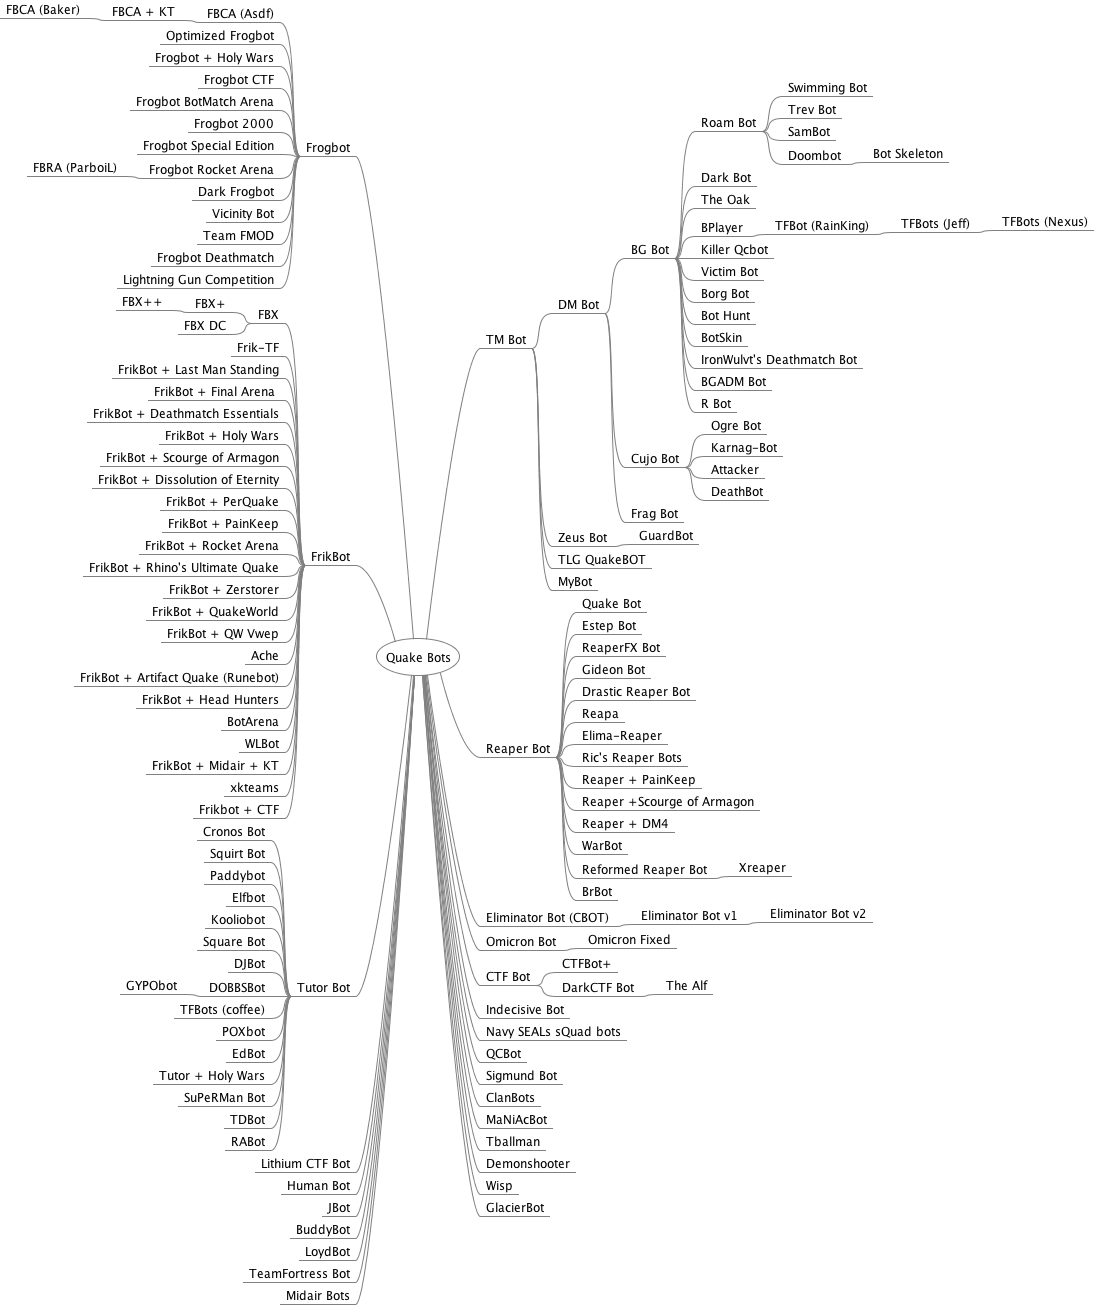
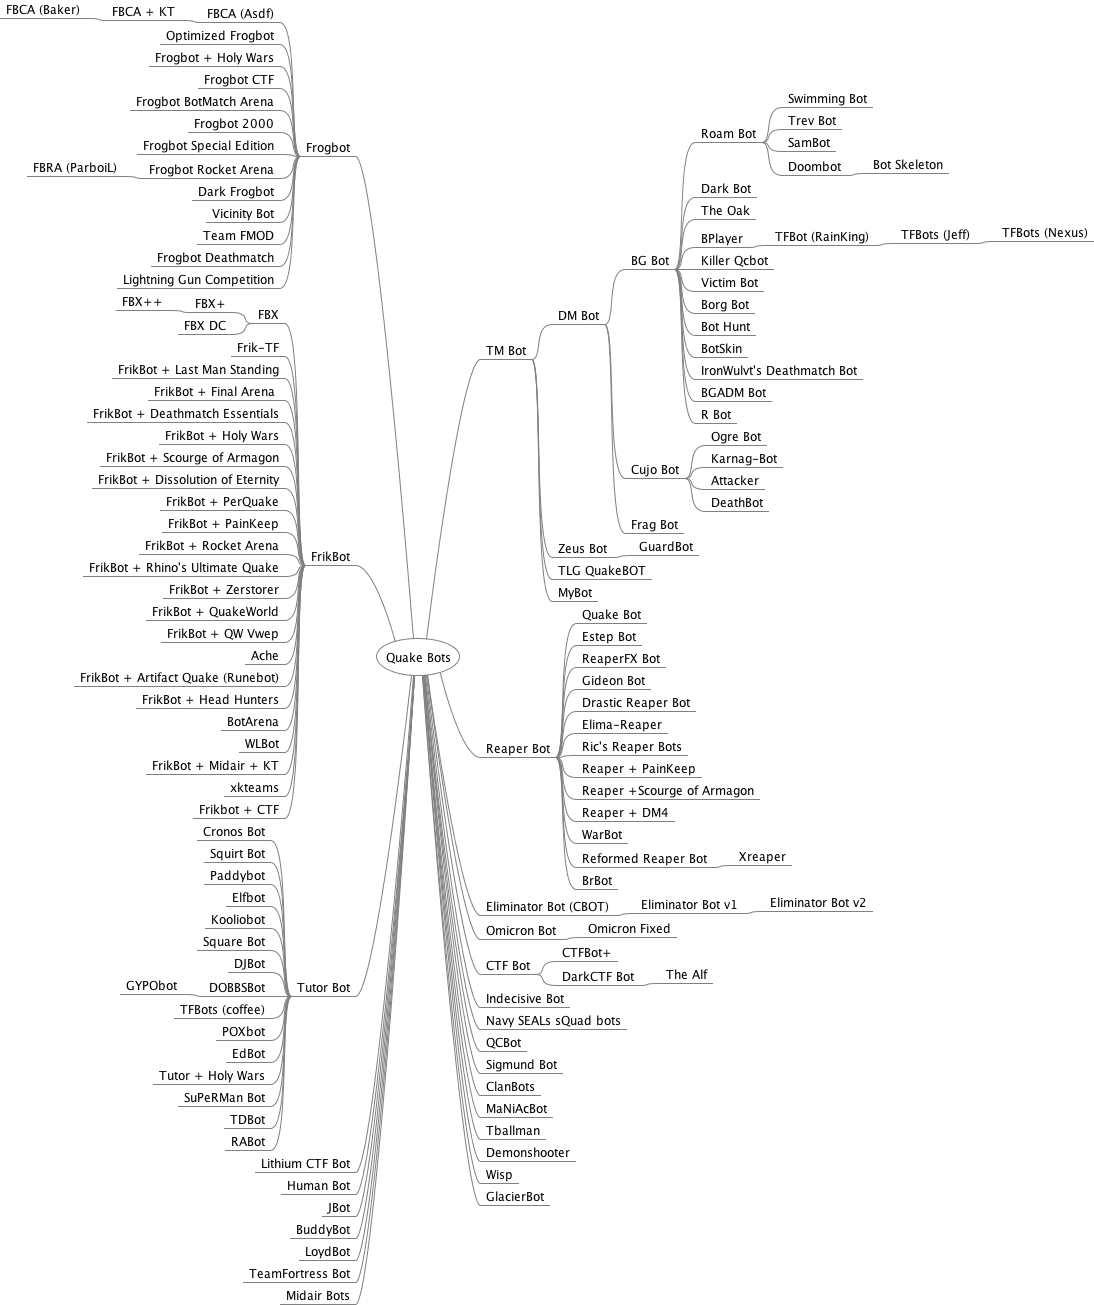
removed Reapa

Changed region(s): [[0.3729, 0.0613, 0.9945, 0.9502], [0.4973, 0.2146, 0.5594, 0.2452], [0.4351, 0.2452, 0.4973, 0.2759]]

diff --git a/mindmap/QuakeBots.mm b/mindmap/QuakeBots.mm
@@ -50,7 +50,6 @@
 <node CREATED="1622594033428" ID="ID_466163906" MODIFIED="1622594034554" TEXT="ReaperFX Bot"/>
 <node CREATED="1622594496177" ID="ID_1512770589" MODIFIED="1622594497250" TEXT="Gideon Bot"/>
 <node CREATED="1622673183629" ID="ID_236348246" MODIFIED="1622673190218" TEXT="Drastic Reaper Bot"/>
-<node CREATED="1622683900997" ID="ID_269789052" MODIFIED="1622683902962" TEXT="Reapa"/>
 <node CREATED="1622765296654" ID="ID_18028651" MODIFIED="1622765297924" TEXT="Elima-Reaper"/>
 <node CREATED="1622932723464" ID="ID_1562437891" MODIFIED="1622932724483" TEXT="Ric&apos;s Reaper Bots"/>
 <node CREATED="1623191450894" ID="ID_545078126" MODIFIED="1623191454973" TEXT="Reaper + PainKeep"/>

diff --git a/README.md b/README.md
@@ -114,7 +114,6 @@ QCBot | Alan Kivlin aka "Virtuoso" | [qcbot003.zip](bin/qcbot003.zip) <br>qcbot0
 Quake Bot (QBot) | "Grinder" | [qbot11.zip](bin/qbot11.zip)
 R Bot | Ross Johnson aka "ColdKill" | [rbot70.zip](bin/rbot70.zip)<br>[rbot20.zip](bin/rbot20.zip)<br>rbot.zip
 RABot | Rodrigo Marx aka "Shooter" | [MWRRABOT222CL.ZIP](bin/MWRRABOT222CL.ZIP)<br>[rabot.zip](bin/rabot.zip)
-Reapa | Terry Hendrix II aka "Mongoose" | ?
 Reaper + DM4 | "Hades" | [dm4reaper.zip](bin/dm4reaper.zip)
 Reaper + Painkeep | Bent Svendsen aka "Decker" | [pkbot.zip](bin/pkbot.zip)
 Reaper + Scourge of Armagon | Bent Svendsen aka "Decker" | [hipreap3.zip](bin/hipreap3.zip)
